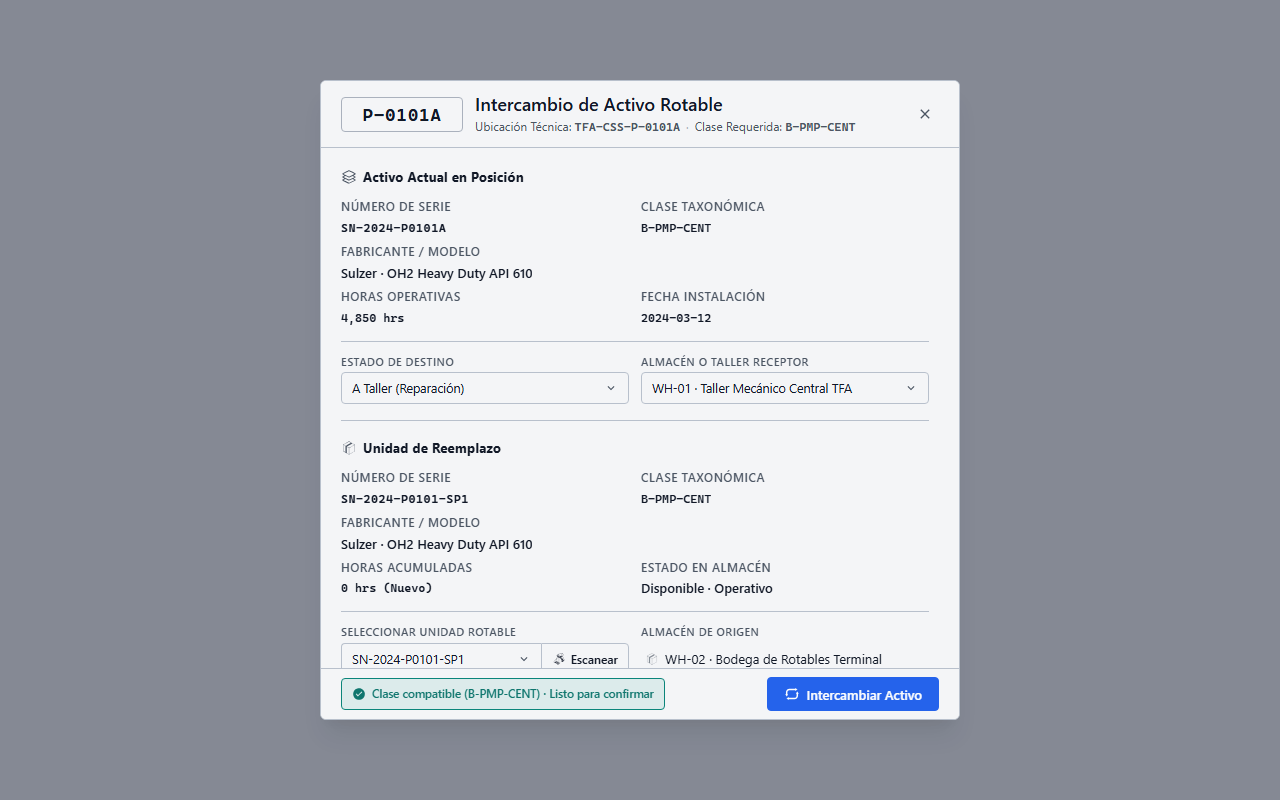
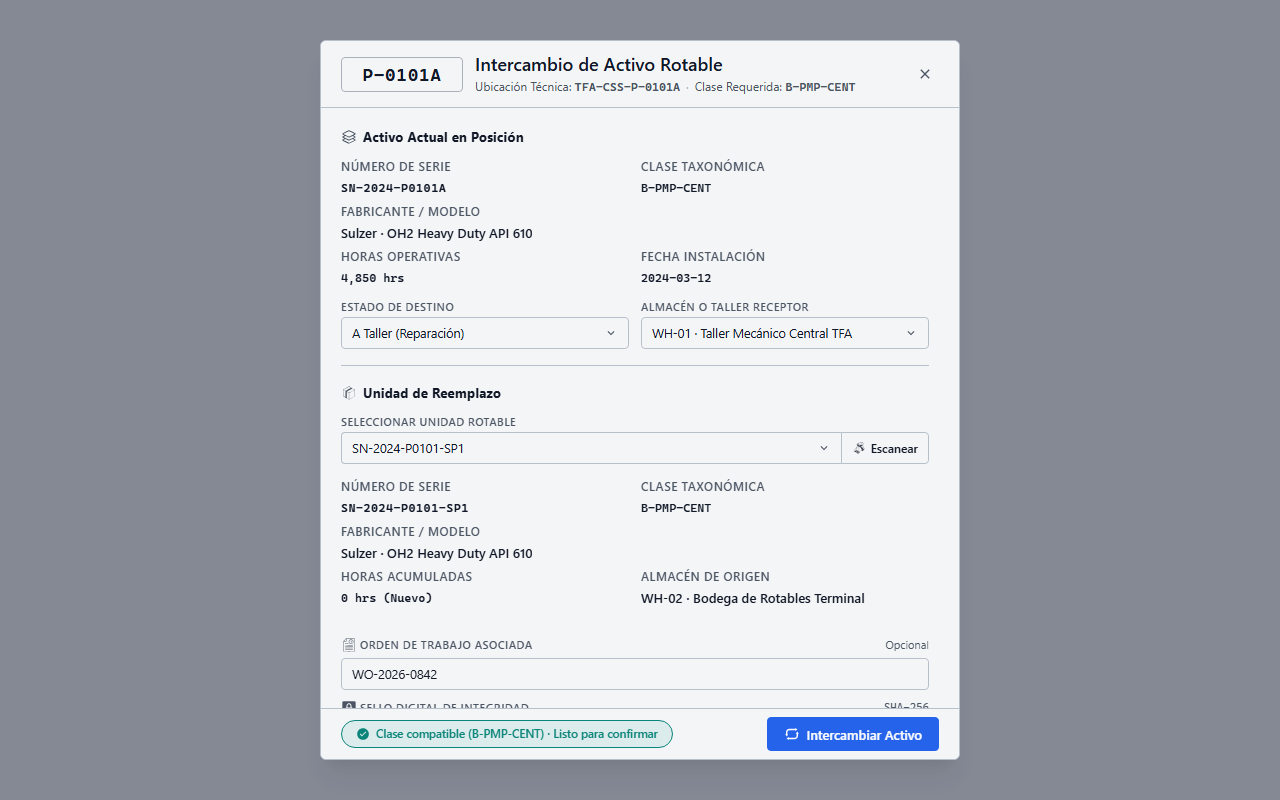
docs(ui-ux): update SCR-INV-025 spec and captures with top-dock selector and capsule pill

diff --git a/ui-ux/screens/inv/SCR-INV-025.md b/ui-ux/screens/inv/SCR-INV-025.md
@@ -57,10 +57,10 @@ status: Stable
 | `CMP-01` | Modal Container & Header | Modal shell & navigation header | Surface: `--dt-color-surface-card`<br>Border: `--dt-color-border-subtle`<br>Elevation: `--dt-z-modal` | Hosts tag headline box (`.tag-headline-box`) on the left, modal title ("Intercambio de Activo Rotable"), technical metadata subtitle ("Ubicación Técnica: TFA-CSS-P-0101A · Clase Requerida: B-PMP-CENT"), and dismissal control. Operates as a centered modal dialog with a unified single-column vertical stack across workstation and tablet viewports. Detailed in §5.2 and §8. |
 | `CMP-02` | Dismounted Asset Card | Currently installed machine card | Surface: `--dt-color-surface-card`<br>Border: None<br>Radius: `--dt-radius-none` | Displays mounted asset details including Serial Number (`Número de serie`), Equipment Class, Manufacturer/Model, Operating Hours, and Installation Date in a 2-column key-value grid. Hosts mandatory destination controls (`CMP-03`). Stacked vertically above `CMP-04`. Detailed in §5.1. |
 | `CMP-03` | Destination Status & Warehouse Controls | Status selector and warehouse picker | Surface: `--dt-color-surface-card`<br>Border: `--dt-color-border-subtle` | Dropdown pair capturing post-dismount destination status (`Estado de Destino`: `A Taller (Reparación)`, `A Almacén (Operativo)`, `Para Baja Técnica`) and target storage warehouse (`Almacén o Taller Receptor`). Blocks submission if left unassigned. Detailed in §5.1, §5.3.2, and §7.2.3. |
-| `CMP-04` | Replacement Asset Card | Replacement rotable picker card | Surface: `--dt-color-surface-card`<br>Border: None<br>Radius: `--dt-radius-none` | Displays replacement equipment specs (Serial Number / `Número de serie`, Equipment Class, Manufacturer/Model, Accumulated Hours, Warehouse Status) in a 2-column key-value grid. Hosts serial selector dropdown (`CMP-04`), optical scan trigger (`CMP-05`), and borderless read-only origin warehouse readout (`Almacén de Origen`). Positioned sequentially below `CMP-02`. Detailed in §5.1. |
+| `CMP-04` | Replacement Asset Card | Replacement rotable picker card | Surface: `--dt-color-surface-card`<br>Border: None<br>Radius: `--dt-radius-none` | Hosts full-width rotable selector (`CMP-04`) and optical scan trigger (`CMP-05`) directly below the card title. The metadata grid displays replacement equipment specs (Serial Number / `Número de serie`, Equipment Class, Manufacturer/Model, Accumulated Hours, Origin Warehouse / `Almacén de origen`). Positioned sequentially below `CMP-02`. Detailed in §5.1. |
 | `CMP-05` | Barcode / NFC Scan Trigger | Tactile camera/scanner button | Surface: `--dt-color-surface-card`<br>Border: `--dt-color-border-subtle`<br>Touch Target: `--dt-touch-target-mobile` | Activates camera-based barcode scanning or Web NFC reader to instantly select the replacement unit by physical asset barcode tag. Viewfinder overlay includes simulation action button `[Simular Lectura de Código]`. Docked with replacement dropdown in unified addon group. Detailed in §5.2.3 and §7.3. |
-| `CMP-06` | Taxonomic Compatibility Indicator | Real-time validation badge | Dynamic Surface: `--dt-color-surface-card` (neutral), `--dt-color-state-success` (compatible), `--dt-color-alarm-warning` (warning), or `--dt-color-alarm-critical` (incompatible) | Validates that replacement unit matches the exact `EquipmentClassId` of the Functional Location and is currently in warehouse storage status (`Clase compatible (B-PMP-CENT)`). Rejects mismatches (`Incompatible: Clase B-PMP-REC (requiere B-PMP-CENT)`) or unavailable units (`Incompatible: Unidad en mantenimiento`). Grounded directly in the modal footer adjacent to `CMP-09` to serve as the immediate validation gate. Detailed in §5.3.1. |
-| `CMP-07` | Work Order Linkage Field | Optional justifying WO input | Surface: `--dt-color-surface-card`<br>Border: `--dt-color-border-subtle` | Searchable input linking the equipment swap transaction to a justifying work order (`Orden de Trabajo Asociada`), captioned `Opcional`. Arranged side-by-side with `CMP-08` in a 2-column auxiliary grid. Detailed in §5.1. |
+| `CMP-06` | Taxonomic Compatibility Indicator | Real-time validation capsule pill | Dynamic Capsule Pill: Hidden / Empty (default), Surface: `rgba(13, 148, 136, 0.12)` / Border: `--dt-color-state-success` (compatible), `--dt-color-alarm-warning` (warning), or `--dt-color-alarm-critical` (incompatible)<br>Radius: `--dt-radius-full` | Validates that replacement unit matches the exact `EquipmentClassId` of the Functional Location and is currently in warehouse storage status (`Clase compatible (B-PMP-CENT)`). Rendered as an ANSI/ISA-101 compliant capsule pill (`--dt-radius-full`, 9999px) with checkmark icon. Hidden in default unselected state to eliminate visual noise. Grounded directly in the modal footer adjacent to `CMP-09` to serve as the immediate validation gate. Detailed in §5.3.1. |
+| `CMP-07` | Work Order Linkage Field | Optional justifying WO input | Surface: `--dt-color-surface-card`<br>Border: `--dt-color-border-subtle` | Searchable input linking the equipment swap transaction to a justifying work order (`Orden de Trabajo Asociada`), captioned `Opcional`. Arranged in single-column vertical stack (`.aux-stack`) above `CMP-08`. Detailed in §5.1. |
 | `CMP-08` | Cryptographic Audit Hash Readout | Subtle SHA-256 preview readout | Surface: Transparent (`--dt-color-surface-card`)<br>Font: `--dt-font-mono-data`<br>Border: None | Displays real-time generated SHA-256 hash chaining payload in a borderless single-line readout (`Sello Digital de Integridad`), visualizing the immutable cryptographic audit record dispatched with the transaction. Displays `—` (em-dash) when unselected. Detailed in §5.3.3. |
 | `CMP-09` | Atomic Commit Action Button | Primary transactional confirm button | Surface: `--dt-color-state-info`<br>Disabled Surface: `--dt-color-state-disabled` | Primary action `[Intercambiar Activo]`. Coupled with adjacent taxonomic validation badge (`CMP-06`). Enforces single-commit atomic execution; disabled until all taxonomic and destination constraints are satisfied. Detailed in §5.3.4. |
 | `CMP-10` | Modal Close & Dismiss Action | Header close icon button and Escape shortcut | Surface: Transparent (`--dt-color-surface-card`)<br>Border: None<br>Color: `--dt-color-text-muted` | Safely dismisses the modal without committing changes, unblocking the host screen without altering database configuration or location links. Detailed in §5.2. |
@@ -71,7 +71,7 @@ status: Stable
 
 | State | Visual Modification in the Interface | Activation Condition |
 | :--- | :--- | :--- |
-| **Normal / Default** | Modal open over backdrop. Dismounted asset details populated with installation metadata. Destination dropdowns unselected. Replacement asset selector empty. Cryptographic hash readout `CMP-08` displays `—`. Footer validation badge `CMP-06` displays *"Esperando selección de activo..."*. `CMP-09` is disabled (`--dt-color-state-disabled`). | User triggers "Asset Swap" from Functional Location detail or Work Order panel. |
+| **Normal / Default** | Modal open over backdrop. Dismounted asset details populated with installation metadata. Destination dropdowns unselected. Replacement asset selector empty. Cryptographic hash readout `CMP-08` displays `—`. Footer validation slot `CMP-06` is clean and empty. `CMP-09` is disabled (`--dt-color-state-disabled`). | User triggers "Asset Swap" from Functional Location detail or Work Order panel. |
 | **Scanning Barcode / NFC** | Modal displays camera viewfinder overlay with scanning reticle and action button *"Simular Lectura de Código"*. Status text: *"Alinee la etiqueta del activo rotable dentro de la retícula..."* | Technician taps `CMP-05` on mobile tablet or workstation with barcode reader. |
 | **Taxonomic Incompatibility (AF-001)** | Replacement asset card highlights with red border (`--dt-color-alarm-critical`). Footer validation badge `CMP-06` displays critical alert: *"Incompatible: Clase B-PMP-REC (requiere B-PMP-CENT)"* or *"Incompatible: Unidad en mantenimiento"*. `CMP-09` is hard-disabled. | Selected replacement equipment does not share identical `EquipmentClassId` or is not available in warehouse (`AF-001`). |
 | **Incomplete Destination (AF-002)** | Destination fields in `CMP-03` highlight with amber focus outline (`--dt-color-alarm-warning`) and warning icon `#icon-warning`. Footer validation badge `CMP-06` indicates: *"Seleccione estado de destino y almacén receptor"*. | User attempts to confirm swap without selecting destination status or warehouse (`AF-002`). |
@@ -380,9 +380,9 @@ public record AssetSwapCompletedEvent(
 
 | Viewport / Breakpoint | Layout Organization | Ergonomic Rules |
 | :--- | :--- | :--- |
-| **Desktop Workstation**<br>($\ge 1920\text{px}$, `--dt-breakpoint-xl`) | Centered modal dialog (sized by `--dt-layout-modal-width-desktop`, max-height `--dt-layout-modal-max-height`); unified single-column vertical stack (`CMP-02` Dismounted Asset stacked above `CMP-04` Replacement Asset, separated by a horizontal hairline divider `--dt-color-border-subtle`). Each card hosts a 2-column key-value grid and a 2-column form control row (`CMP-03` destination pair in Card A, `CMP-04`/`CMP-05` rotable picker and origin warehouse readout in Card B). Followed by 2-column auxiliary grid (`.aux-dual-grid`) for Work Order linkage (`CMP-07` `Orden de Trabajo Asociada`) and subtle SHA-256 integrity seal (`CMP-08`), and grounded modal footer (`CMP-09` `[Intercambiar Activo]` paired with taxonomic validation badge `CMP-06`). | Mouse click interaction; `Tab` key focus cycling; `Enter` to commit; `Escape` or header close icon (`CMP-10`) to dismiss. Fixed control heights eliminate content layout shifts (CLS). Smooth vertical scrolling (`overflow-y: auto`, `scrollbar-gutter: stable`) when content exceeds viewport ceiling. |
-| **Industrial Tablet Landscape**<br>($1280\text{px} - 1919\text{px}$, `--dt-breakpoint-lg`) | Centered modal container (sized by `--dt-layout-modal-width-desktop` / `--dt-layout-modal-width-tablet`, max-height `--dt-layout-modal-max-height`); preserves the unified single-column vertical stack with smooth internal vertical scroll (`overflow-y: auto`, `scrollbar-gutter: stable`). Sequential workflow: Step 1 (Dismounted Asset & Destination) $\to$ Step 2 (Replacement Asset & Origin) $\to$ Step 3 (WO Linkage & Hash) $\to$ Footer Validation Gate. | Gloved touch targets governed by `--dt-touch-target-mobile` with `--dt-space-2` separation; prominent barcode scan trigger (`CMP-05`); header close icon (`CMP-10`) dismisses. |
-| **Industrial Tablet Portrait**<br>($768\text{px} - 1279\text{px}$, `--dt-breakpoint-md`) | Centered modal container (sized by `--dt-layout-modal-width-tablet`, max-height `--dt-layout-modal-max-height`); single-column vertical stack (`CMP-02`/`CMP-03` stacked above `CMP-04`, followed by auxiliary fields `CMP-07` and `CMP-08`) separated by edge-to-edge horizontal dividers (`--dt-color-border-subtle`). | Gloved touch targets governed by `--dt-touch-target-mobile` with `--dt-space-2` separation; sticky modal footer (`CMP-09` `[Intercambiar Activo]` paired with `CMP-06`) permanently visible; header close icon (`CMP-10`) cancels. |
+| **Desktop Workstation**<br>($\ge 1920\text{px}$, `--dt-breakpoint-xl`) | Centered modal dialog (sized by `--dt-layout-modal-width-desktop`, max-height `min(90vh, 740px)`); unified single-column vertical stack (`CMP-02` Dismounted Asset stacked above `CMP-04` Replacement Asset, separated by a horizontal hairline divider `--dt-color-border-subtle`). Card A hosts 2-column key-value grid and 2-column destination controls (`CMP-03`). Card B hosts top-docked full-width rotable selector (`CMP-04`/`CMP-05`) and 5-field metadata grid (including Origin Warehouse). Followed by single-column auxiliary stack (`.aux-stack`) for Work Order linkage (`CMP-07` `Orden de Trabajo Asociada`) and subtle SHA-256 integrity seal (`CMP-08`), and grounded modal footer (`CMP-09` `[Intercambiar Activo]` paired with capsule validation pill `CMP-06`). | Mouse click interaction; `Tab` key focus cycling; `Enter` to commit; `Escape` or header close icon (`CMP-10`) to dismiss. Fixed control heights eliminate content layout shifts (CLS). Smooth vertical scrolling (`overflow-y: auto`, `scrollbar-gutter: stable`) when content exceeds viewport ceiling. |
+| **Industrial Tablet Landscape**<br>($1280\text{px} - 1919\text{px}$, `--dt-breakpoint-lg`) | Centered modal container (sized by `--dt-layout-modal-width-desktop` / `--dt-layout-modal-width-tablet`, max-height `min(90vh, 740px)`); preserves the unified single-column vertical stack with generous vertical measure. Sequential workflow: Step 1 (Dismounted Asset & Destination) $\to$ Step 2 (Select Replacement & View Specs) $\to$ Step 3 (WO Linkage & Hash) $\to$ Footer Validation Gate. | Gloved touch targets governed by `--dt-touch-target-mobile` with `--dt-space-2` separation; prominent barcode scan trigger (`CMP-05`); header close icon (`CMP-10`) dismisses. |
+| **Industrial Tablet Portrait**<br>($768\text{px} - 1279\text{px}$, `--dt-breakpoint-md`) | Centered modal container (sized by `--dt-layout-modal-width-tablet`, max-height `min(90vh, 780px)`); single-column vertical stack with full-width touch targets. Sticky modal footer (`CMP-09` `[Intercambiar Activo]` paired with `CMP-06`) permanently visible; header close icon (`CMP-10`) cancels. | Gloved touch targets governed by `--dt-touch-target-mobile` with `--dt-space-2` separation; sticky modal footer (`CMP-09` `[Intercambiar Activo]` paired with `CMP-06`) permanently visible; header close icon (`CMP-10`) cancels. |
 
 ---
 
